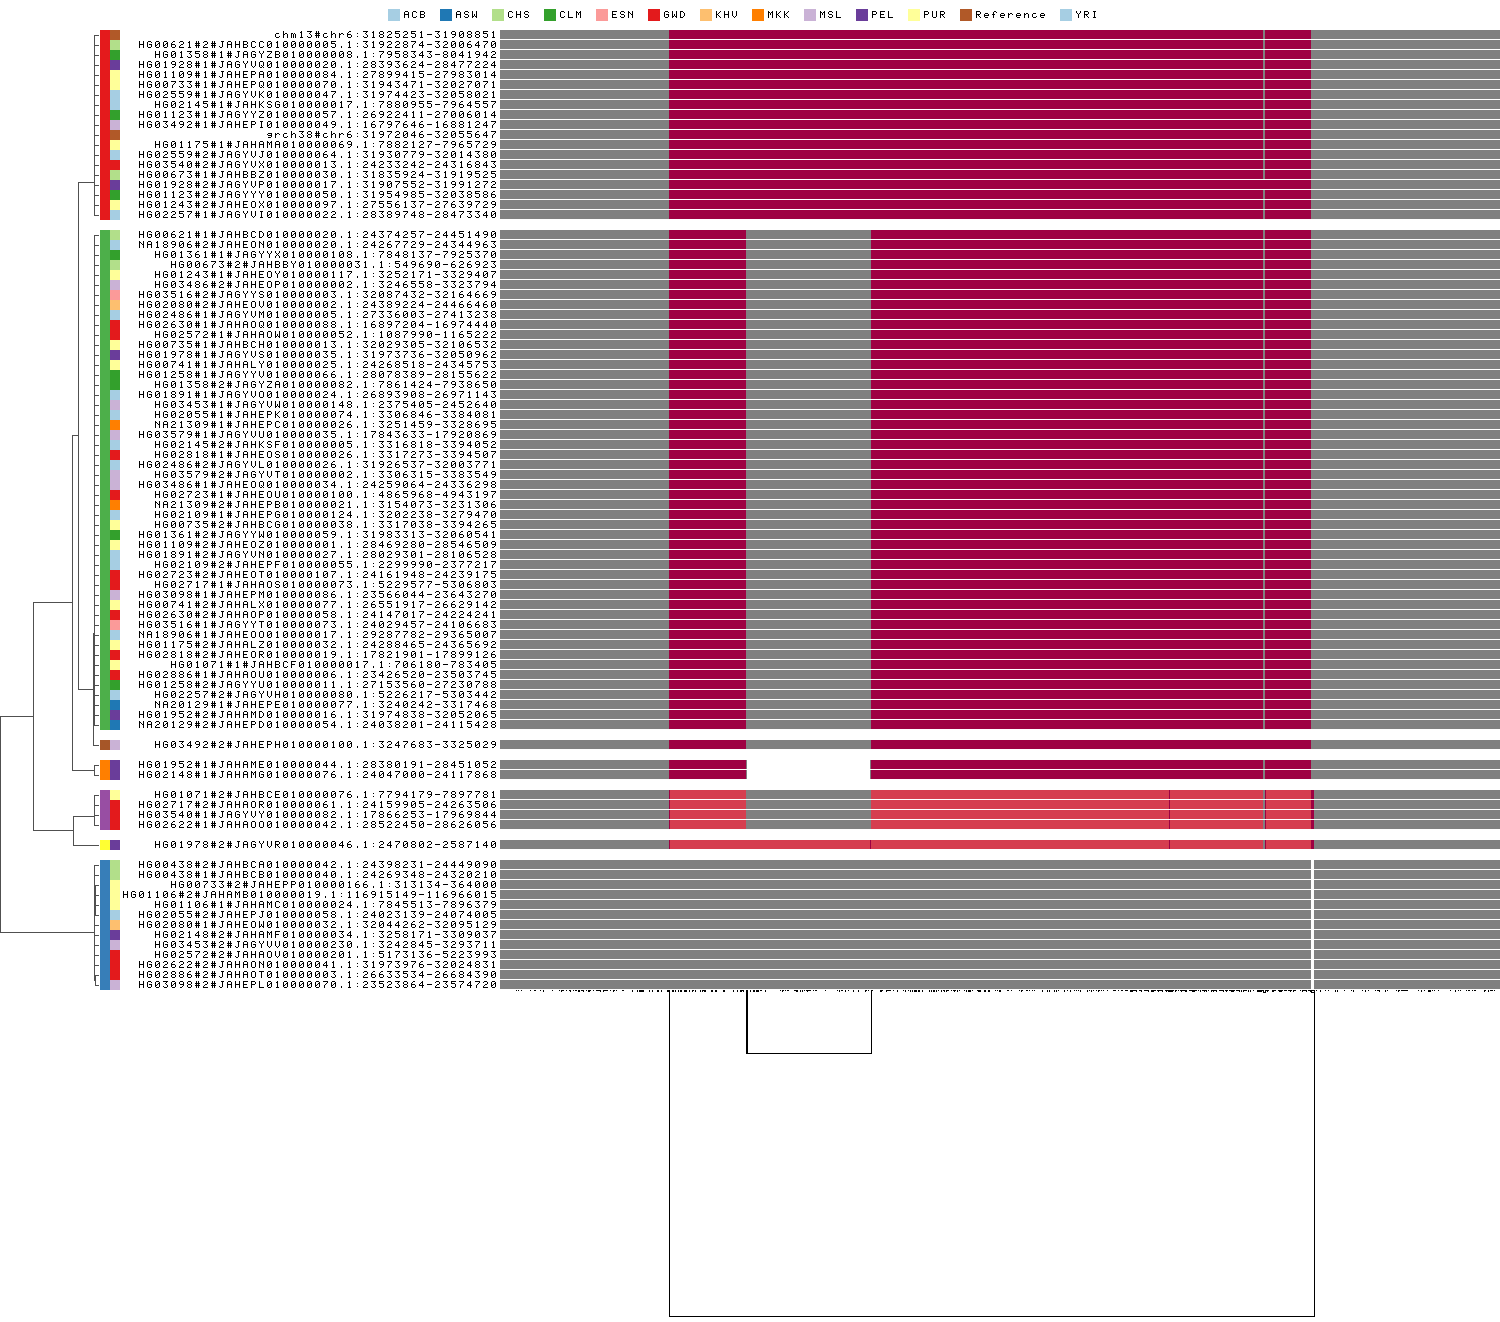
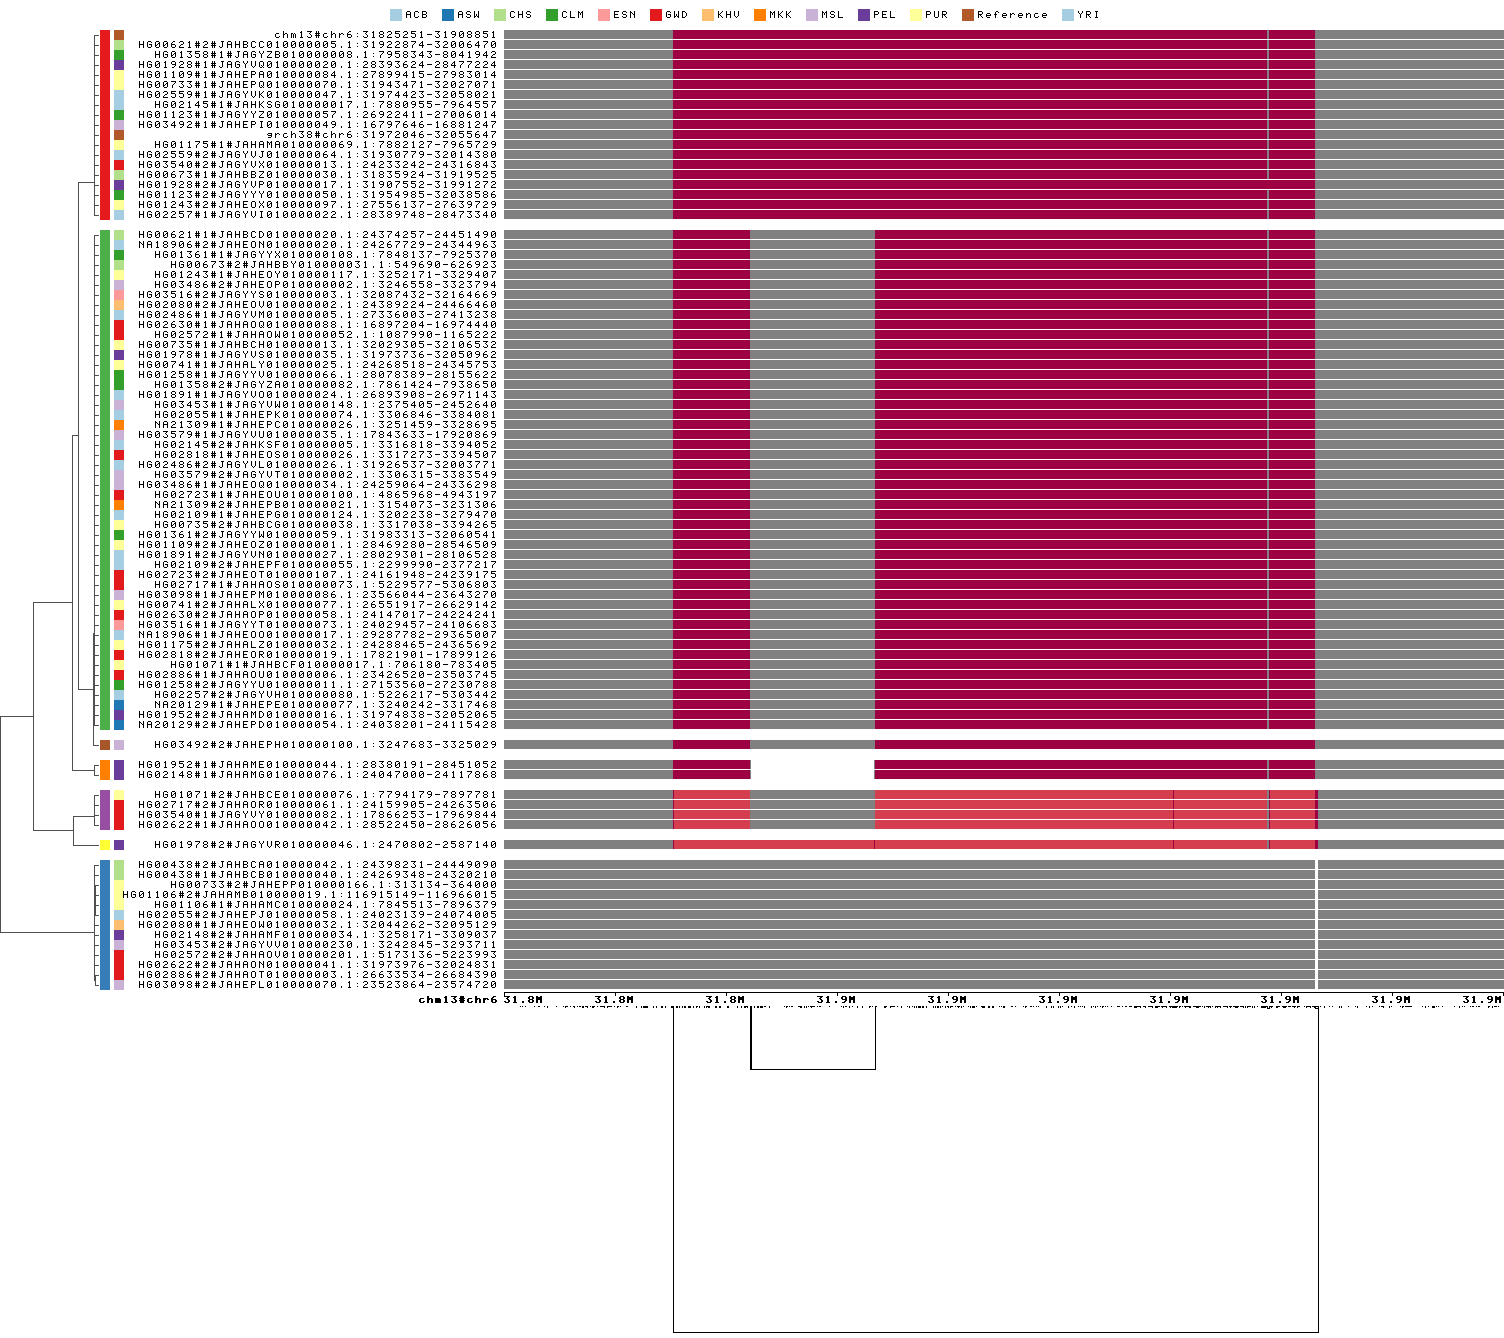
Enhance README and rendering logic to support x-axis coordinates and improve layout with gap between cluster and annotation bars

Changed region(s): [[0.0307, 0.0, 1.0, 0.8064]]

diff --git a/src/main.rs b/src/main.rs
@@ -3036,6 +3036,9 @@ fn render(args: &Args, graph: &Graph) -> Vec<u8> {
         0
     };
 
+    // Gap between cluster bar and annotation bar when both are present
+    let bar_gap: u32 = if cluster_result.is_some() && annotations.is_some() { 4 } else { 0 };
+
     // Legend height (only if annotations are loaded)
     let legend_height: u32 = if annotations.is_some() {
         args.legend_height
@@ -3064,8 +3067,8 @@ fn render(args: &Args, graph: &Graph) -> Vec<u8> {
         0
     };
 
-    // Total left panel width includes dendrogram + cluster bar + annotation bar + path names
-    let path_names_width = dendrogram_width + cluster_bar_width + annotation_bar_width + text_only_width;
+    // Total left panel width includes dendrogram + cluster bar + gap + annotation bar + path names
+    let path_names_width = dendrogram_width + cluster_bar_width + bar_gap + annotation_bar_width + text_only_width;
 
     let path_space = effective_row_count * pix_per_path + total_gap;
 
@@ -3651,11 +3654,11 @@ fn render(args: &Args, graph: &Graph) -> Vec<u8> {
                 }
             }
 
-            // Render annotation indicator bar (after cluster bar)
+            // Render annotation indicator bar (after cluster bar + gap)
             if let Some(ref ann) = annotations {
                 if let Some(category) = ann.get_annotation(&path.name) {
                     if let Some(&(ar, ag, ab)) = ann.category_colors.get(category) {
-                        let ann_bar_x_start = dendrogram_width + cluster_bar_width;
+                        let ann_bar_x_start = dendrogram_width + cluster_bar_width + bar_gap;
                         for x in ann_bar_x_start..(ann_bar_x_start + annotation_bar_width) {
                             add_path_step(
                                 &mut path_names_buffer,
@@ -3688,7 +3691,7 @@ fn render(args: &Args, graph: &Graph) -> Vec<u8> {
             let left_padding = max_num_of_chars - num_of_chars;
 
             if args.color_path_names_background {
-                for x in (left_padding as u32 * char_size + dendrogram_width + cluster_bar_width + annotation_bar_width)
+                for x in (left_padding as u32 * char_size + dendrogram_width + cluster_bar_width + bar_gap + annotation_bar_width)
                     ..path_names_width
                 {
                     add_path_step(
@@ -4620,6 +4623,9 @@ fn render_svg(args: &Args, graph: &Graph) -> String {
         0.0
     };
 
+    // Gap between cluster bar and annotation bar when both are present
+    let bar_gap: f64 = if cluster_result.is_some() && annotations.is_some() { 4.0 } else { 0.0 };
+
     // Legend height (only if annotations are loaded)
     let legend_height: f64 = if annotations.is_some() {
         args.legend_height as f64
@@ -4645,7 +4651,7 @@ fn render_svg(args: &Args, graph: &Graph) -> String {
     let edge_height = (len_to_visualize.min(height_param)) as u32;
     let scale_y_edges = edge_height as f64 / len_to_visualize as f64;
 
-    let total_width = viz_width as f64 + text_width + cluster_bar_width + annotation_bar_width + dendrogram_width;
+    let total_width = viz_width as f64 + text_width + cluster_bar_width + bar_gap + annotation_bar_width + dendrogram_width;
     let total_height = legend_height as u32 + path_space + edge_height;
 
     // Load colorbrewer palette if specified (SVG)
@@ -4824,7 +4830,7 @@ fn render_svg(args: &Args, graph: &Graph) -> String {
             let text_y = y_start + (pix_per_path as f64 / 2.0) + (font_size / 3.0);
             svg.push_str(&format!(
                 r#"<text x="{}" y="{}" class="path-name" fill="black">{}</text>"#,
-                dendrogram_width + cluster_bar_width + annotation_bar_width + 5.0,
+                dendrogram_width + cluster_bar_width + bar_gap + annotation_bar_width + 5.0,
                 text_y,
                 "COMPRESSED_MODE"
             ));
@@ -4848,7 +4854,7 @@ fn render_svg(args: &Args, graph: &Graph) -> String {
                     // Continue the run
                 } else {
                     // Output the previous run
-                    let x = dendrogram_width + text_width + cluster_bar_width + annotation_bar_width + run_start as f64;
+                    let x = dendrogram_width + text_width + cluster_bar_width + bar_gap + annotation_bar_width + run_start as f64;
                     let width = (px - run_start + 1) as f64;
                     svg.push_str(&format!(
                         r#"<rect x="{}" y="{}" width="{}" height="{}" fill="rgb({},{},{})"/>"#,
@@ -4868,7 +4874,7 @@ fn render_svg(args: &Args, graph: &Graph) -> String {
         }
         // Output last run
         if let Some(px) = prev_x {
-            let x = dendrogram_width + text_width + cluster_bar_width + annotation_bar_width + run_start as f64;
+            let x = dendrogram_width + text_width + cluster_bar_width + bar_gap + annotation_bar_width + run_start as f64;
             let width = (px - run_start + 1) as f64;
             svg.push_str(&format!(
                 r#"<rect x="{}" y="{}" width="{}" height="{}" fill="rgb({},{},{})"/>"#,
@@ -5102,7 +5108,7 @@ fn render_svg(args: &Args, graph: &Graph) -> String {
                     } else {
                         // Output run
                         let x =
-                            dendrogram_width + text_width + cluster_bar_width + annotation_bar_width + run_start as f64;
+                            dendrogram_width + text_width + cluster_bar_width + bar_gap + annotation_bar_width + run_start as f64;
                         let width = (px - run_start + 1) as f64;
                         svg.push_str(&format!(
                             r#"<rect x="{}" y="{}" width="{}" height="{}" fill="rgb({},{},{})"/>"#,
@@ -5120,7 +5126,7 @@ fn render_svg(args: &Args, graph: &Graph) -> String {
             }
             // Output last run
             if let Some(px) = prev_x {
-                let x = dendrogram_width + text_width + cluster_bar_width + annotation_bar_width + run_start as f64;
+                let x = dendrogram_width + text_width + cluster_bar_width + bar_gap + annotation_bar_width + run_start as f64;
                 let width = (px - run_start + 1) as f64;
                 svg.push_str(&format!(
                     r#"<rect x="{}" y="{}" width="{}" height="{}" fill="rgb({},{},{})"/>"#,
@@ -5228,7 +5234,7 @@ fn render_svg(args: &Args, graph: &Graph) -> String {
                 // White text on colored background
                 svg.push_str(&format!(
                     r#"<rect x="{}" y="{}" width="{}" height="{}" fill="rgb({},{},{})"/>"#,
-                    dendrogram_width + cluster_bar_width + annotation_bar_width,
+                    dendrogram_width + cluster_bar_width + bar_gap + annotation_bar_width,
                     y_start,
                     text_width,
                     pix_per_path,
@@ -5243,7 +5249,7 @@ fn render_svg(args: &Args, graph: &Graph) -> String {
             };
             svg.push_str(&format!(
                 r#"<text x="{}" y="{}" class="path-name" fill="{}">{}</text>"#,
-                dendrogram_width + cluster_bar_width + annotation_bar_width + 5.0,
+                dendrogram_width + cluster_bar_width + bar_gap + annotation_bar_width + 5.0,
                 text_y,
                 text_color,
                 escape_xml(&display_name)
@@ -5462,7 +5468,7 @@ fn render_svg(args: &Args, graph: &Graph) -> String {
             };
             svg.push_str(&format!(
                 r#"<line x1="{}" y1="{}" x2="{}" y2="{}" stroke="{}" stroke-width="1"/>"#,
-                dendrogram_width + cluster_bar_width + annotation_bar_width + text_width,
+                dendrogram_width + cluster_bar_width + bar_gap + annotation_bar_width + text_width,
                 border_y,
                 total_width,
                 border_y,
@@ -5532,7 +5538,7 @@ fn render_svg(args: &Args, graph: &Graph) -> String {
         let axis_y = legend_height + path_space_with_gap + axis_padding;
 
         // X start of the axis line (end will be calculated based on path's pangenomic extent)
-        let axis_x_start = dendrogram_width + cluster_bar_width + annotation_bar_width + text_width;
+        let axis_x_start = dendrogram_width + cluster_bar_width + bar_gap + annotation_bar_width + text_width;
 
         // Draw axis label on the left
         // Strip the :start-end range from the label when showing absolute coordinates
@@ -5556,7 +5562,7 @@ fn render_svg(args: &Args, graph: &Graph) -> String {
         let label_y = axis_y + (axis_total_height / 2.0) + (font_size / 3.0);
         svg.push_str(&format!(
             r#"<text x="{}" y="{}" class="path-name" font-weight="bold" fill="black">{}</text>"#,
-            dendrogram_width + cluster_bar_width + annotation_bar_width + 5.0,
+            dendrogram_width + cluster_bar_width + bar_gap + annotation_bar_width + 5.0,
             label_y,
             escape_xml(&display_label)
         ));
@@ -5711,8 +5717,8 @@ fn render_svg(args: &Args, graph: &Graph) -> String {
             let dist = (b - a) * bin_width;
             let h = (dist * scale_y_edges).min(edge_height as f64 - 1.0);
 
-            let ax = dendrogram_width + cluster_bar_width + annotation_bar_width + text_width + a.round();
-            let bx = dendrogram_width + cluster_bar_width + annotation_bar_width + text_width + b.round();
+            let ax = dendrogram_width + cluster_bar_width + bar_gap + annotation_bar_width + text_width + a.round();
+            let bx = dendrogram_width + cluster_bar_width + bar_gap + annotation_bar_width + text_width + b.round();
 
             // Skip degenerate edges (zero height and minimal width - not visible)
             if h < 1.0 && (bx - ax).abs() < 2.0 {

diff --git a/README.md b/README.md
@@ -223,18 +223,19 @@ HG01891	ACB
 ...
 ```
 
-### Annotations with clustering (`-E -k -D -m`)
+### Annotations with clustering (`-E -k -D -m --x-axis`)
 
-Combine path annotations with clustering, dendrogram, and depth coloring:
+Combine path annotations with clustering, dendrogram, depth coloring, and x-axis coordinates:
 
 ```bash
 gfalook -i graph.gfa -o annotation_clustered.png -x 1000 -y 500 \
-    -E test/annotations.tsv -k -D -m
+    -E test/annotations.tsv -k -D -m \
+    --x-axis "chm13#chr6:31825251-31908851" --x-axis-absolute
 ```
 
 ![Annotations with clustering](images/annotation_clustered.png)
 
-The annotation bar appears between the cluster bar and path names, making it easy to see how population labels correlate with similarity clusters.
+This example shows all visualization features combined: legend at top, dendrogram on left, cluster bar, annotation bar (with a gap between them), path names, depth coloring, and x-axis with absolute coordinates at the bottom.
 
 ## License
 
